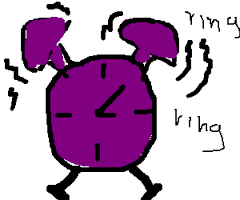
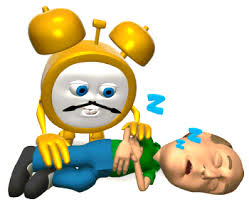
fixed alarm

diff --git a/src/tick_tock/ClockFrame.java b/src/tick_tock/ClockFrame.java
@@ -6,6 +6,7 @@ import java.awt.Container;
 import java.awt.FlowLayout;
 import java.awt.event.ActionEvent;
 import java.awt.event.ActionListener;
+import java.io.File;
 import java.io.FileInputStream;
 import java.io.FileNotFoundException;
 import java.io.IOException;
@@ -34,7 +35,7 @@ public class ClockFrame extends JFrame {
 	private JPanel outputPanel;
 	private JPanel picturePanel;
 	private AlarmComponent comp2;
-	
+
 	public ClockFrame() {
 		setSize(700, 525);
 		setTitle("CLOCK");
@@ -44,7 +45,7 @@ public class ClockFrame extends JFrame {
 		Container contentPane = getContentPane();
 		contentPane.setLayout(new BorderLayout());
 		this.comp = new PaintComponent();
-		this.comp2 = new AlarmComponent();
+		this.comp2 = new AlarmComponent(comp.getAlarms(), comp.getClock());
 		contentPane.add(comp, BorderLayout.CENTER);
 		eastPanel = new JPanel();
 		eastPanel.setLayout(new BoxLayout(eastPanel, BoxLayout.PAGE_AXIS));
@@ -99,14 +100,14 @@ public class ClockFrame extends JFrame {
 
 		Thread thread = new Thread() {
 			public void run() {
-			
+
 				while (true) {
 					frame.comp.getClock().getTime().tick();
 					frame.repaint();
 					InputStream in;
-					AudioStream as=null;
+					AudioStream as = null;
 					try {
-						in = new FileInputStream("./Alarm Ringing.mp3");
+						in = new FileInputStream(new File("./AlarmRinging.mp3"));
 						as = new AudioStream(in);
 					} catch (FileNotFoundException e1) {
 					} catch (IOException e) {
@@ -115,7 +116,7 @@ public class ClockFrame extends JFrame {
 					if (frame.comp.getAlarms().getRing() == true) {
 						AudioPlayer.player.start(as);
 					}
-					
+
 					try {
 						Thread.sleep(1000);
 					} catch (InterruptedException e) {

diff --git a/src/tick_tock/AlarmComponent.java b/src/tick_tock/AlarmComponent.java
@@ -8,31 +8,30 @@ import java.io.IOException;
 import javax.imageio.ImageIO;
 import javax.swing.JComponent;
 
-public class AlarmComponent extends JComponent{
+public class AlarmComponent extends JComponent {
 	private Image sleepingImage;
 	private Image ringImage;
 	private Alarms alarm;
 	private Clock clock;
-	public AlarmComponent(){
+
+	public AlarmComponent(Alarms alarm, Clock clock) {
 		try {
 			ringImage = ImageIO.read(new File("alarmRing.png"));
 			sleepingImage = ImageIO.read(new File("sleepingClock.png"));
 		} catch (IOException e) {
 		}
-		alarm = new Alarms();
-		clock = new Clock();
+		this.alarm = alarm;
+		this.clock = clock;
 	}
 
 	protected void paintComponent(Graphics g) {
 		super.paintComponent(g);
 		alarm.checkIfCurrentAlarms(clock.getTime());
 		if (alarm.getRing()) {
-			//int size = 200;
 			g.drawImage(ringImage, 0, 0, getWidth(), getHeight(), null);
-		}
-		else{
+		} else {
 			g.drawImage(sleepingImage, 0, 0, getWidth(), getHeight(), null);
 		}
-		
+
 	}
 }

diff --git a/src/tick_tock/Alarms.java b/src/tick_tock/Alarms.java
@@ -68,7 +68,7 @@ public class Alarms {
 		return info.toString();
 	}
 
-	public Graphics paint(Graphics g, TimeNow time) {
+/*	public Graphics paint(Graphics g, TimeNow time) {
 		checkIfCurrentAlarms(time);
 		if (ring) {
 			int size = 200;
@@ -76,7 +76,7 @@ public class Alarms {
 					+ Coordinates.clockMargin - size / 2, size, size, null);
 		}
 		return g;
-	}
+	}*/
 
 	public JList getAlarmList() {
 		return alarmList;

diff --git a/src/tick_tock/PaintComponent.java b/src/tick_tock/PaintComponent.java
@@ -55,7 +55,6 @@ public class PaintComponent extends JComponent {
 		g.drawImage(image, 0, 0, getWidth(), getHeight(), null);
 
 		g = clock.paint(g);
-		g = alarms.paint(g, clock.getTime());
 
 	}
 }
